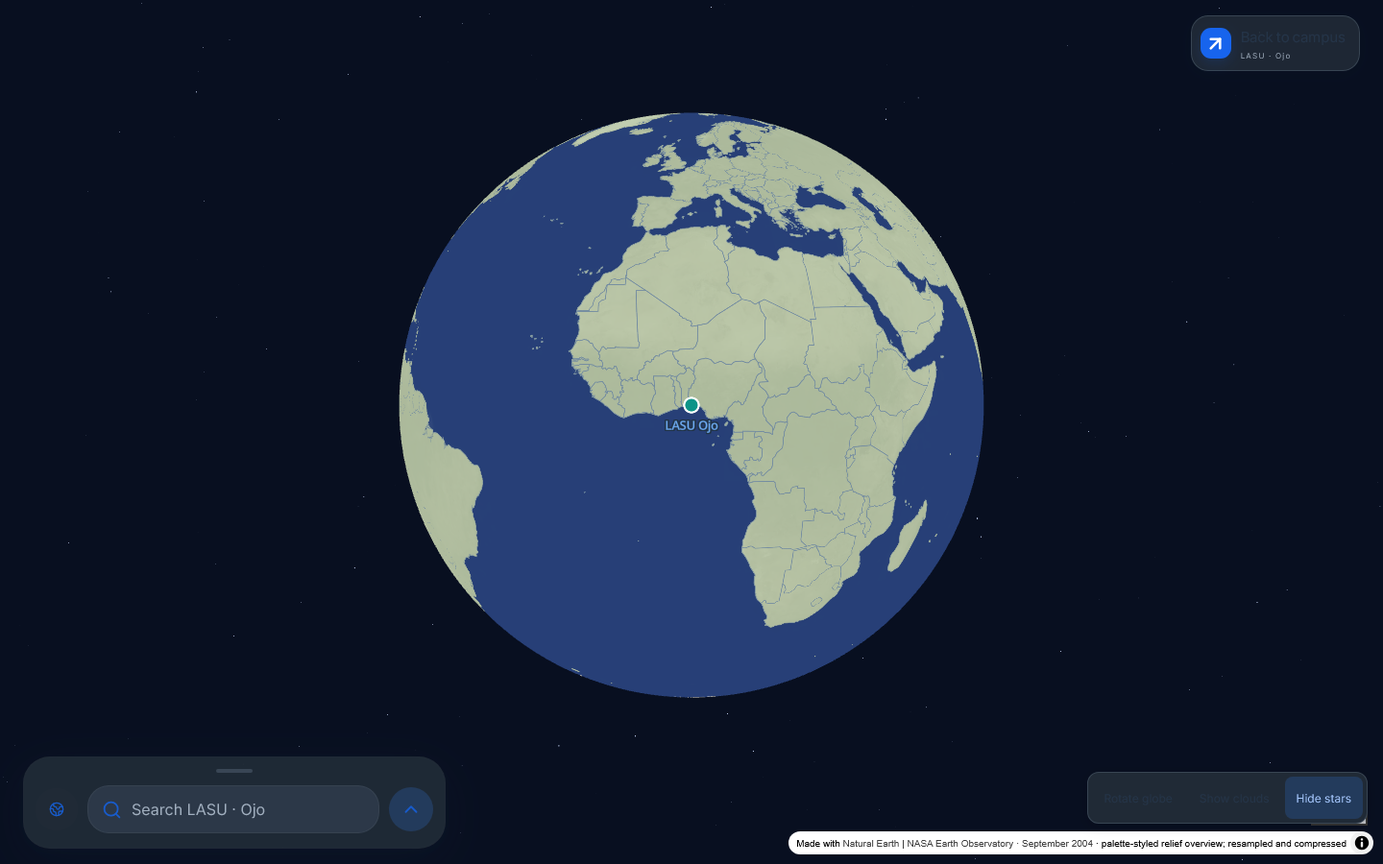
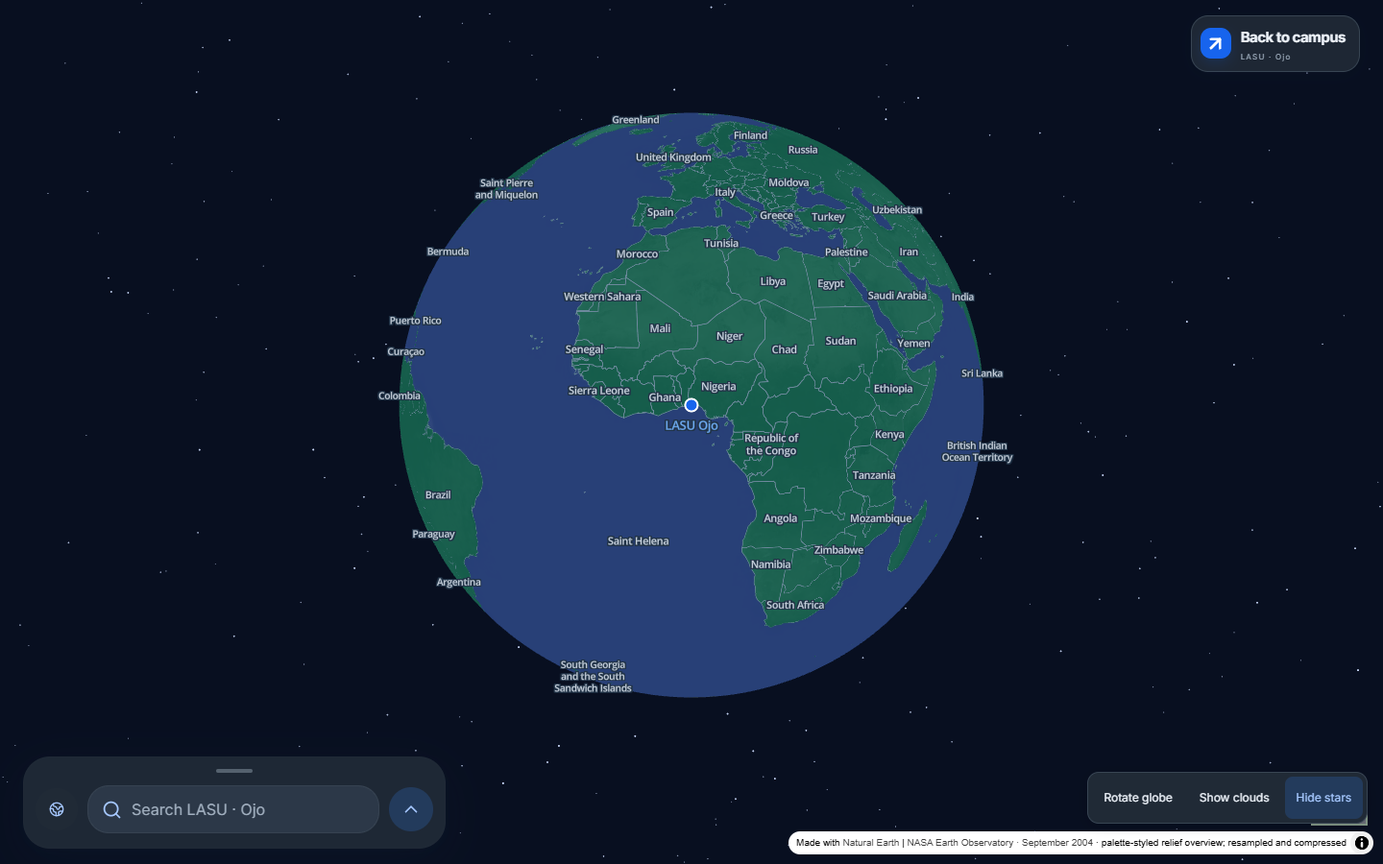
docs: refresh image workflows, activity monitoring and globe screenshots

diff --git a/README.md b/README.md
@@ -48,7 +48,7 @@ The project has three connected parts: a public offline navigation app, a privat
 
 ## Screenshots
 
-Current production-build captures use the verified published campus **`lasu-7343cb96c9a5`**: 395 buildings, 220 places and 39 photographs. Public screens render the real application; editor screens use isolated owner/API fixtures and never expose a private account or change production drafts. The model canvas examples include explicitly illustrative local edits. Phone views are browser simulations.
+The 26 September production-build captures use the then-published campus **`lasu-7343cb96c9a5`**: 395 buildings, 220 places and 39 photographs. Public screens render the real application; editor screens use isolated owner/API fixtures and never expose a private account or change production drafts. The model canvas examples include explicitly illustrative local edits. Phone views are browser simulations.
 
 ### Public map
 
@@ -96,6 +96,8 @@ The globe button beside public search (**Choose a campus**) opens the globe and 
 
 ![Campus search beside the globe](docs/assets/screenshots/globe-campus-chooser-2026-09-27.png)
 
+<img src="docs/assets/screenshots/globe-portrait-chooser-2026-09-27.png" width="280" alt="Portrait globe centred above the campus chooser, with visible stars">
+
 The [UNILAG download guide](docs/UNILAG-DOWNLOADS.md) reproduces separate ArcGIS/OSM files for Akoka and a 500 m access-road buffer, complete-record checks, illustrated manual instructions and a checksum-verified ZIP. Downloading does not import or publish UNILAG.
 
 | Published-campus switcher | Download one campus independently |
@@ -122,9 +124,20 @@ These new screenshots use isolated owner/API fixtures and illustrative second-ca
 
 <img src="docs/assets/screenshots/editor-model-actions-mobile-2026-09-26.png" width="300" alt="Selected detail action menu with edit, duplicate, copy, lock, hide and delete commands">
 
-**Photo management:** review, arrange and edit building photographs independently from model details.
+**Photo management:** edit and compress images offline, then review, arrange and publish building photographs independently from model details.
 
 ![Visual photo workspace with published building views and gallery controls](docs/assets/screenshots/editor-photos-current-2026-09-26.png)
+
+**Offline image editor:** retain originals, crop/rotate, adjust colour, flatten privacy areas, compare quality and compress batches. Map-ready copies enter the existing rights-review workflow. [Photo editing guide](docs/PHOTO-EDITING.md).
+
+![Offline photo editor with original retention and compression controls](docs/assets/screenshots/photo-optimise-desktop-2026-09-27.png)
+
+| Landscape image editing | Build and import activity |
+| --- | --- |
+| ![Landscape image editor with scrollable controls](docs/assets/screenshots/photo-optimise-landscape-2026-09-27.png) | ![Activity drawer with stages and measured progress](docs/assets/screenshots/activity-monitor-2026-09-27.png) |
+
+**Activity:** follow import inspection, release builds, model files, photos and offline downloads through named stages. Real counts drive percentages where available; failures retain recovery information. [Progress monitor](docs/PROGRESS-MONITOR.md).
+
 
 **Edit model:** one workspace combines an expandable structure tree, a shared 3D viewport, surface-aligned editing, precision plans and photograph references.
 
@@ -274,7 +287,7 @@ Open a destination's **Building photographs** and **Entrances & arrival** sectio
 
 The map distinguishes connected entrances, unconfirmed connections and mapped approaches. **Mapped approach …; final entrance not verified** means the route ends on a mapped path near the destination. It does not confirm a doorway connection. Recorded steps, ramps, surfaces and measured doorway widths remain observations, with unknown details left unknown; no accessible-route guarantee is implied.
 
-The building inspector shows its gallery preview and **Manage photos** button at the top. Owners edit arrival guides separately from this photo workspace. Add multiple files, review large previews, choose **I took this photo** or an external source, arrange the cover and gallery, and recover unfinished work in **Private uploads**. Reviewed photos attach to the map draft in an undoable batch; public-gallery preview and release publication remain separate. Original uploads and reviewer records remain private. Published derivatives are metadata-free WebP files, at most 1,600 pixels on the longest side and 250 KiB each. Moving an entrance flags its guide and photographs for review. Photos never grant access or create routing connections. [Guide, media review and offline behavior](docs/ARRIVAL-GUIDES.md) · [Collection coverage and candidate decisions](data/photos/README.md).
+The building inspector shows its gallery preview and **Manage photos** button at the top. Owners edit arrival guides separately from this photo workspace. Add multiple files, review large previews, choose **I took this photo** or an external source, arrange the cover and gallery, and recover unfinished work in **Private uploads**. Reviewed photos attach to the map draft in an undoable batch; public-gallery preview and release publication remain separate. Local full-resolution originals stay on the device; prepared upload copies and reviewer records remain private. The offline editor accepts JPEG/PNG/WebP, retains editable recipes and provides crop, rotation, colour, privacy and batch compression controls. [Editing and compression](docs/PHOTO-EDITING.md). Published derivatives are metadata-free WebP files, at most 1,600 pixels on the longest side and 250 KiB each. Moving an entrance flags its guide and photographs for review. Photos never grant access or create routing connections. [Guide, media review and offline behavior](docs/ARRIVAL-GUIDES.md) · [Collection coverage and candidate decisions](data/photos/README.md).
 
 ## Appearance and 3D
 
@@ -446,7 +459,7 @@ Storage can be evicted or unavailable. Keep recovery exports for important work;
 
 The LASU map combines OpenStreetMap and permitted LASU ArcGIS layers with reviewed owner corrections. Other campuses retain their own boundaries, mappings, source identities, attribution and access reviews. LASU’s confirmed road/gate exceptions are never applied to other campuses. Source IDs, access tags and provenance remain available. The world overview uses the fixed September 2004 NASA Blue Marble shaded-topography composite (about 2 km per original pixel at the equator) and public-domain Natural Earth v5.1.2 at 1:50m scale. It does not add worldwide roads, current campus imagery or routing coverage. Tiles are bundled locally. [Sources, dates, checksums and credits](data/world-sources.json).
 
-The reviewed public release verified on **26 September 2026** is **`lasu-7343cb96c9a5`**, containing **395 buildings, 220 places and 39 photographs**, with **84 assets / 20,228,832 bytes**. Its release summary is “Roofing detail additions and map building clean up”. The earlier 19-building photographic assessment used `lasu-8577d5c85d2c` and was published as `lasu-313d8a168635` on 24 September. Its historical comparison preserved feature identities, footprints, photographs, routing and access permissions; later owner publications have their own release records. The [coverage report](docs/PHOTO-MODEL-COVERAGE.md) records comparisons against that previous baseline. The live/downloaded version can advance independently; the app's Offline screen is authoritative for the user's installed package.
+The reviewed public release verified on **27 September 2026** is **`lasu-49f832190110`**, containing **395 buildings, 220 places and 39 photographs**, with **121 assets / 19,986,835 bytes**. Its release summary is “building cleanup and texture feature test”. The globe/import software deployment preserves this owner-published package unchanged. The earlier 19-building photographic assessment used `lasu-8577d5c85d2c` and was published as `lasu-313d8a168635` on 24 September. Its historical comparison preserved feature identities, footprints, photographs, routing and access permissions; later owner publications have their own release records. The [coverage report](docs/PHOTO-MODEL-COVERAGE.md) records comparisons against that previous baseline. The live/downloaded version can advance independently; the app's Offline screen is authoritative for the user's installed package.
 
 Seed coverage is a reproducible baseline, not a claim about later owner releases:
 
@@ -583,6 +596,13 @@ TurnRight/
 │   │   ├── surface-text.ts           # Wall/roof lettering and validation
 │   │   ├── campus-model-layer.ts     # Published/draft Three.js model rendering
 │   │   ├── PhotoManager.tsx          # Private photo uploads, recovery and approvals
+│   │   ├── PhotoOptimizer.tsx        # Offline crop, colour, privacy and compression UI
+│   │   ├── photo-edit*.ts            # Recipes, worker client and processing worker
+│   │   ├── photo-processing-local.ts # Native decode, pixel edits and bounded encoding
+│   │   ├── photo-local.ts            # Owner/campus original and recipe storage
+│   │   ├── photo-queue-store.ts      # Sequential uploads and immutable prepared copies
+│   │   ├── ProcessMonitor.tsx        # Activity drawer and scoped server status
+│   │   ├── process-monitor.ts        # Shared local task lifecycle and measured counts
 │   │   ├── SurveyPanel.tsx           # GPS recording and reviewed path application
 │   │   ├── routing.worker.ts         # Device-local routing
 │   │   ├── WorldAnimation.tsx        # Remembered rotation/cloud/star controls
@@ -636,6 +656,7 @@ TurnRight/
 | Import header or fields are unreadable in Dark mode | Install the current app update; campus surfaces and validation text use the shared theme tokens. |
 | A map import cannot finish | Open its job details; check missing projections/files, feature or expanded-size limits, attribution and source completeness. Correct the source/mapping and retry; failed jobs do not replace accepted data. |
 | An old inspection failed with `/work/request.json` permission denied | The worker now matches the private folder's owner. Install the current app update and retry the existing import. |
+| An ArcGIS inspection failed with `Failed to read GeoJSON data` | ArcGIS snapshots now explicitly use the ESRIJSON driver. Retry the existing job; the production UNILAG service has been verified through field mapping. |
 | An upload is missing or interrupted | Open the failed import, choose the same files again, then Inspect layers. Completed reserved uploads are reused. |
 | GeoJSON reports `exceededTransferLimit` | The export is incomplete. Use the underlying ArcGIS layer or its Query link for complete batching, or download every ID batch yourself. Do not remove the flag to accept partial data. |
 | A campus is missing from public search | Private campus creation/import does not publish it. Review the candidate, then build and publish that campus’s release. |
@@ -667,6 +688,7 @@ Start with the [documentation index](docs/README.md), which groups guides by tas
 | Guide | Topics |
 | --- | --- |
 | [Editor](docs/EDITOR.md) / [Reliability](docs/EDITOR-RELIABILITY.md) | Drawing, connections, recovery, conflict and operation-specific errors |
+| [Offline image editing](docs/PHOTO-EDITING.md) / [Progress monitor](docs/PROGRESS-MONITOR.md) | Local image tools, recovery, compression and task-stage visibility |
 | [Entrance guides](docs/ARRIVAL-GUIDES.md) / [Photograph collection](data/photos/README.md) | Entrance selection, accessibility observations, private media review, reusable image coverage and offline galleries |
 | [Driving](docs/DRIVING.md) / [Campus enrichment](docs/ENRICHMENT.md) | Independent vehicle permissions, drive-and-walk journeys, imports, source evidence and review |
 | [Unified model workflow](docs/UNIFIED-MODEL-EDITOR.md) / [Building editor](docs/BUILDING-EDITOR.md) | Precision tools, duplication, patterns, roofs/outlines, evidence, undo and recovery |

diff --git a/docs/PHOTO-EDITING.md b/docs/PHOTO-EDITING.md
@@ -1,0 +1,57 @@
+# Offline image editing and compression
+
+Open a building's **Manage photos** workspace and choose **Add photos**, **Local image drafts · edit offline**, or **Edit & optimise** on an existing photograph. Processing runs on your device. Upload review and map publication remain separate steps.
+
+![Desktop photo editor with local original, preview and compression controls](assets/screenshots/photo-optimise-desktop-2026-09-27.png)
+
+## Edit an image
+
+1. Select JPEG, PNG or WebP files: up to 20 images and 100 MiB per batch, 25 MiB and 40 megapixels per image. Animated images are rejected.
+2. Crop by drawing or entering percentages. Choose an aspect ratio, rotate, straighten or flip. Light and colour controls adjust exposure, contrast, saturation and temperature.
+3. Choose the longest edge, output format, quality and optional target size. **Preview changes** produces a new image from the retained original. Small images are not enlarged. PNG is lossless; JPEG uses white behind transparent areas.
+4. Compare the original and edited output with the divider. When crop or orientation changes, separate **Original / Edited** controls avoid overlaying mismatched geometry. Zoom and scroll to inspect details.
+5. Use **Download edited image** for a local export. **Download original** retrieves the retained source. Undo, redo and reset affect the recipe; they do not overwrite the source file.
+
+The target size is a goal, not a promise. Encoding tries a bounded set of quality settings and reports if the target cannot be met. Reduce the dimensions or choose another format after checking the result. Available codecs depend on the browser; unsupported encoders report an error rather than returning a differently labelled format.
+
+![Landscape photo editing with independently scrolling settings and preview](assets/screenshots/photo-optimise-landscape-2026-09-27.png)
+
+<img src="assets/screenshots/photo-controls-portrait-2026-09-27.png" width="280" alt="Portrait photo compression controls scrolled into view above the upload footer">
+
+## Privacy areas
+
+Preview the edited geometry first, then draw blur, pixelation or solid redaction areas. **Add redaction with coordinates** and the area percentage fields also work without dragging. These areas are flattened into the exported pixels. Prefer solid redaction for sensitive information. Changing crop, rotation or flips clears the areas and asks you to mark them again against the new geometry.
+
+Exports strip embedded metadata. The retained original still contains its original pixels and metadata, so only share it deliberately. Attribution, source, licence and modification notes remain in the photo review form and public credits; stripping embedded metadata does not remove those credits.
+
+## Batch processing and upload
+
+**Apply compression settings to batch** copies only the format, longest edge, quality and target size. Each photograph keeps its own crop, orientation and privacy areas. **Optimise batch** processes one image at a time. Pause waits between images; cancellation preserves completed results and original files.
+
+**Use selected for map** or **Use batch for map** prepares WebP images with a maximum 1,600-pixel edge and 250 KiB size, then opens the existing upload review. Oversized results remain local until you adjust them. The upload queue retains an immutable copy of the prepared output: later local edits cannot change a file already waiting to upload. Files queued offline resume when connected. Complete the attribution/rights review before attaching photos to a building draft; publishing the map still requires the release workflow.
+
+The server validates uploaded bytes and strips metadata when needed. A valid bounded, metadata-free WebP passes through without another lossy encode. Gallery replacements retain their position and existing source metadata. Without a local original, editing an existing photograph starts from the available gallery derivative and explains that limitation.
+
+## Prepare and recover offline
+
+While online, use **Survey → Prepare for offline survey** to cache the owner workspace and selected campus. Open the image editor and choose **Prepare for offline use** to verify the installed app cache and exercise the image codec. Then disconnect. Local drafts can be reopened, edited and downloaded after a reload.
+
+![Prepared image editor working while disconnected](assets/screenshots/photo-editing-offline-2026-09-27.png)
+
+Original bytes, recipes and previews use owner- and campus-scoped IndexedDB. They remain on this browser profile until removed; they are not an online backup. Clearing site data or browser storage eviction can remove them. Download important originals. **Remove local files** deletes a selected local draft; remove its pending upload from the queue first. Storage errors keep the panel open and explain recovery instead of claiming the changes were saved.
+
+The lazy worker uses native image decoding and encoding, with a canvas fallback where supported. No external image service receives local editing inputs. The image editor does not add Squoosh as a dependency; it supplies an integrated offline workflow with the formats above.
+
+## Verification
+
+Focused tests cover recipe validation, owner/campus isolation, metadata stripping, image orientation, JPEG/PNG/WebP results, redaction pixels, cancellation, gallery upload/retry, recovery and responsive controls. The production-service-worker test disconnects, reloads and edits a saved original before queueing it without an upload.
+
+```sh
+cd web
+npx vitest run tests/photo-edit.test.ts tests/media.test.ts tests/photo-workspace.test.ts
+npx playwright test --grep "offline image editor|image worker|photo workspace"
+npx playwright test --config playwright.photos.webkit.config.ts
+npx playwright test --config playwright.photos.pwa.config.ts
+```
+
+See [photo review and arrival guides](ARRIVAL-GUIDES.md), [activity monitoring](PROGRESS-MONITOR.md), [architecture](ARCHITECTURE.md) and [screenshot provenance](assets/screenshots/README.md).

diff --git a/docs/CAMPUS-IMPORTS.md b/docs/CAMPUS-IMPORTS.md
@@ -48,7 +48,11 @@ GeoJSON exports containing `exceededTransferLimit` (including inside collection 
 
 ### September 27 inspection repair
 
-Failed production jobs reported `PermissionError: /work/request.json` before parsing. Matching the container's UID/GID to the runner fixes access to the private 0700 directory while retaining network/capability restrictions. The [Linux regression run](https://github.com/mrglasswillbreak/TurnRight/actions/runs/36294682742) verifies the real worker command/mount and every supported driver. Missing-upload errors now explain how to reselect the same files; resumable uploads invalidate stale run tokens and candidates.
+Failed production jobs reported `PermissionError: /work/request.json` before parsing. Matching the container's UID/GID to the runner fixes access to the private 0700 directory while retaining network/capability restrictions. The [Linux regression run](https://github.com/mrglasswillbreak/TurnRight/actions/runs/36296175970) verifies the real worker command/mount and every supported driver. Missing-upload errors now explain how to reselect the same files; resumable uploads invalidate stale run tokens and candidates.
+
+Large ArcGIS snapshots also exposed a JSON-driver ambiguity: when feature records precede the schema, GDAL's header probe can select GeoJSON and fail before reading the later ArcGIS geometry type. Inspection now identifies the dialect from the parsed document and explicitly selects the [GDAL ESRIJSON driver](https://gdal.org/en/stable/drivers/vector/esrijson.html). The regression fixture puts a long feature record before the schema. The existing production UNILAG ArcGIS job then [completed inspection successfully](https://github.com/mrglasswillbreak/TurnRight/actions/runs/36296250634), exposing 14 layers for private field mapping, including 633 buildings and the complete 2,425-feature Greenland layer. No review candidates or public map changes were applied by this verification.
+
+The five complete user-supplied files also [passed a production file inspection](https://github.com/mrglasswillbreak/TurnRight/actions/runs/36296393964): 633 building footprints, 157 road lines, 179 road-width polygons, 426 parcels and nine greenspaces, totaling 1,404 features. The private source **UNILAG supplied vectors — inspection** remains at Map fields. Parcel uses `OBJECTID_1`, road-width polygons are suggested as land cover, and walking access remains restricted until reviewed. The original batch containing truncated Greenland remains recoverable with its explicit completeness error. Inspection success does not certify geometry validity, redistribution rights or publication readiness.
 
 The six supplied UNILAG examples were also checked locally without changing their contents. Greenland contains 1,000 valid polygons but explicitly reports truncation, so it needs a complete export. Parcel contains 426 features and requires its unique `OBJECTID_1` (the older `OBJECTID` repeats). Greenspace has nine features; Roads has 157 lines; Building_footprint has 633 polygons. Road width contains 179 polygons, one geometrically invalid, to resolve in preview/review. These checks do not establish source completeness for files without a source count or grant redistribution rights.
 
@@ -113,6 +117,10 @@ The default limits are 50 MiB per upload batch, 250 MiB expanded archives, 100,0
 `campuses`, `campus_sources`, `campus_imports` and `campus_import_assets` hold private identity, configuration and jobs. Migrations 013–015 add campus scoping to source records, edits, reviews, reports, surveys, media, model assets and releases. Legacy requests and backfilled records remain LASU-only. The server resolves public slugs and passes an explicit campus context to REST and transactional RPCs; private storage grants are not exposed to anonymous or authenticated browser clients.
 
 The public `/packages/campuses.json` catalogue is versioned separately from immutable manifests. `/packages/latest.json` remains LASU's compatibility entry point. New manifests carry campus identity; LASU's existing feature IDs and public model fingerprints are unchanged. See [architecture](ARCHITECTURE.md) and [rollout](DEPLOYMENT.md).
+
+## Process visibility
+
+Open **Activity** while inspecting or building a preview. It shows upload/file counts, verified ArcGIS retrieval batches, conversion and final job stages. The job remains visible in the campus workspace too. Status refreshes while online; cancellation still invalidates the run token so stale processing cannot apply results. [Progress monitor](PROGRESS-MONITOR.md).
 
 ## Verification
 

diff --git a/docs/assets/screenshots/README.md b/docs/assets/screenshots/README.md
@@ -1,10 +1,19 @@
 # Application screenshots
 
+## Image editing, activity and portrait globe · 27 September 2026
+
+The new `photo-optimise-*`, `photo-controls-portrait`, `photo-editing-offline` and `activity-monitor` captures are unaltered local application screenshots. The desktop/phone images use Chromium with an isolated owner API and a published, attributed School of Communication photograph; the fixture gallery is deliberately called Library and is not a claim about that building identity. The portrait image is scrolled to compression controls. The offline screenshot comes from the production-service-worker test after disconnecting and reloading. The activity import stage is an explicit test fixture, not a live production import.
+
+Run `playwright.photos.webkit.config.ts`, `playwright.photos.pwa.config.ts`, and the Chromium `offline image editor|image worker|photo workspace` journeys as described in [photo editing](../../PHOTO-EDITING.md). The final focused results are six Chromium workflows, four WebKit workflows and one disconnected PWA workflow. Reviewed captures show fit-to-panel previews, independently scrolling landscape regions and contained phone controls.
+
+The theme and chooser globe captures were refreshed from the configured production build with the brighter star field. `globe-portrait-chooser` is 390×844; the desktop chooser is 1280×720. The globe/chooser data are isolated fixtures and do not imply a second published campus. The still screenshots demonstrate the controls and star orientation; animation and occlusion have separate pixel/workflow assertions.
+
+
 ## Globe and import recovery · 27 September 2026
 
 The new `globe-*-2026-09-27.png` captures show the current navy star background, different globe orientations, Light's retained sunlit horizon, Dark without horizon glow, the campus chooser and a centred mobile landscape globe. `import-resume-2026-09-27.png` shows recovery from an unavailable uploaded file. These replace the affected September 26 globe/chooser views in current guides; older files remain dated archives.
 
-They are unaltered application captures from `tests/browser/globe-search.spec.ts` and the `campus imports resume failed uploads` journey, with real MapLibre rendering and isolated public/owner responses. Example campus names and the small place fixture are illustrative, not newly published campuses. Theme views are 1440×900, landscape is 667×375 and the chooser is 1440×1000. Both Chromium and Windows WebKit workflows are exercised; the displayed theme and upload-recovery captures use WebKit, while landscape and the chooser use Chromium. They do not establish physical-phone performance or GPS accuracy.
+They are unaltered application captures from `tests/browser/globe-search.spec.ts` and the `campus imports resume failed uploads` journey, with real MapLibre rendering and isolated public/owner responses. Example campus names and the small place fixture are illustrative, not newly published campuses. Theme views are 1440×900 and landscape is 667×375. Both Chromium and Windows WebKit workflows are exercised; the refreshed theme/chooser captures use Chromium, and upload recovery uses WebKit. The landscape file retains its earlier date-matched capture. They do not establish physical-phone performance or GPS accuracy.
 
 Run the focused journeys sequentially, inspect their `test-results` PNG files, and copy reviewed captures to this directory with their date:
 

diff --git a/docs/ARCHITECTURE.md b/docs/ARCHITECTURE.md
@@ -8,10 +8,16 @@ Migrations 013–015 backfill campus IDs without rewriting feature identities or
 
 GIS processing stays outside browser bundles. Owner-signed uploads feed resumable jobs, a restricted GDAL/PROJ container and Pyosmium topology ingestion. HTTPS adapters validate public DNS/redirects and complete ArcGIS ID batches. Candidates compare against an exact accepted source snapshot and are queued atomically with run-token checks; source corrections and publication remain separate steps. Manual refresh is default. Optional daily checks never publish automatically.
 
-The container uses the host runner's UID/GID to access its private 0700 temporary directory while retaining disabled network access, dropped capabilities and a read-only root filesystem. The Linux regression workflow exercises that actual mount/command as well as individual drivers. Inspection rejects truncated GeoJSON/ESRIJSON exports before GDAL conversion, reports unique candidate ID fields, and accepts a layer's `/query` URL with an explicit notice that query filters are replaced by campus-bound inspection. Failed uploads can resume their reserved storage objects; resetting the job invalidates its old run token and candidate.
+The container uses the host runner's UID/GID to access its private 0700 temporary directory while retaining disabled network access, dropped capabilities and a read-only root filesystem. The Linux regression workflow exercises that actual mount/command as well as individual drivers. Inspection selects the GeoJSON/ESRIJSON driver from the parsed JSON dialect rather than a short header probe, rejects truncated exports before GDAL conversion, reports unique candidate ID fields, and accepts a layer's `/query` URL with an explicit notice that query filters are replaced by campus-bound inspection. Failed uploads can resume their reserved storage objects; resetting the job invalidates its old run token and candidate.
 
 Code builds preserve all published campus assets. Release snapshots record the catalogue baseline, and serialized publication rejects stale previews. Campus rollback copies its historical immutable package into a new preview alongside the other current campuses. See [formats and workflows](CAMPUS-IMPORTS.md).
 
+
+## Local images and process monitoring
+
+`PhotoOptimizer.tsx` is a lazy image-editing dialog. Versioned recipes feed `photo-edit.worker.ts` and `photo-processing-local.ts`; native decoding/encoding, bounded image dimensions and sequential batches keep large images outside the startup path. Edits always begin from the retained source. IndexedDB stores original/output bytes and MIME types, reconstructing Blobs when opened to avoid browser-specific Blob persistence failures. Keys isolate owner and campus. Prepared queue copies are immutable and survive offline reloads. Server validation passes through bounded metadata-free WebP without another lossy encode; existing uploads still receive sanitisation. [Workflow and limits](PHOTO-EDITING.md).
+
+`process-monitor.ts` collects local stage events and real completion totals. The lazy owner Activity drawer also polls campus-scoped `process-status` while visible/online. Import worker run-token checks protect progress as well as results. Release stage recording is best effort and never makes a valid release depend on monitoring availability. No new schema is required. [Coverage and lifecycle](PROGRESS-MONITOR.md).
 
 ## Authored model extension
 

diff --git a/docs/PHOTO-MODELS.md b/docs/PHOTO-MODELS.md
@@ -16,7 +16,7 @@ No image in this snapshot has an established camera bearing tied to a specific m
 
 ## Owner workflow
 
-Select a building and open **Edit model**. Desktop combines a measured wall canvas, selectable 3D, properties and a photograph reference. Mobile offers **Wall**, **3D** and **Photo** views. [The complete current workspace guide](UNIFIED-MODEL-EDITOR.md) covers precision controls, groups, patterns, presets, recovery and targeted review.
+Select a building and open **Edit model**. Desktop combines a measured wall canvas, selectable 3D, properties and a photograph reference. The shared views are **Orbit**, **Edit surface** and **Photo**. A remembered **Reference split** places the model beside a photograph when enough space is available. Edit surface supplies the precision controls and automatic 2D fallback. [The complete current workspace guide](UNIFIED-MODEL-EDITOR.md) covers precision controls, groups, patterns, presets, recovery and targeted review.
 
 1. Choose a mapped wall and photograph. Confirm their correspondence and check historical labels and credits. A general building photograph does not prove every elevation.
 2. Add windows, doors, columns, balconies, canopies, parapets or trim directly in metres; generated details are preserved in the same action. Conversion can also be previewed first. Dimensions and unseen sides remain estimates unless supported by measurements. Appearance (including whole-building height), roof and outline controls are modes in this same workspace.
@@ -29,7 +29,7 @@ Sources contains **Edit model evidence · 19 buildings**. Review observations an
 
 ## Globe sources
 
-The globe uses the fixed **September 2004 NASA Blue Marble Next Generation shaded-topography composite**, at 21,600 × 10,800 source pixels (approximately **2 km per source pixel at the equator**). It is resampled to 8,192 × 4,096 and reprojected into 341 local 512-pixel WebP tiles for zooms 0–4. This is a dated global overview, not current campus imagery. Relief is baked in; there are no global terrain meshes, animated clouds or automatic rotation.
+The globe uses the fixed **September 2004 NASA Blue Marble Next Generation shaded-topography composite**, at 21,600 × 10,800 source pixels (approximately **2 km per source pixel at the equator**). It is resampled to 8,192 × 4,096 and reprojected into 341 local 512-pixel WebP tiles for zooms 0–4. This is a dated global overview, not current campus imagery. Relief is baked in; there are no global terrain meshes. Optional gentle automatic rotation and decorative animated clouds now accompany the overview; these are not live weather. A deterministic navy star background responds to globe orientation in both themes. Light retains the sunlit horizon; Dark omits it.
 
 Credit: NASA Earth Observatory, Blue Marble Next Generation. [Original imagery](https://science.nasa.gov/earth/earth-observatory/blue-marble-next-generation/base-topography/) · [NASA media guidance](https://www.nasa.gov/nasa-brand-center/images-and-media/). The image is reprojected, resampled and compressed; no NASA affiliation or endorsement is implied. Natural Earth v5.1.2 supplies 1:50m countries/coastlines, lakes and selected populated places under its [public-domain terms](https://www.naturalearthdata.com/about/terms-of-use/). Original label spelling is retained in `sourceName` when display labels require transliteration for bundled glyphs.
 

diff --git a/docs/PROGRESS-MONITOR.md b/docs/PROGRESS-MONITOR.md
@@ -1,0 +1,27 @@
+# Build and process progress
+
+The owner's **Activity** button opens **Builds and processes**. It shows local tasks alongside campus-scoped server jobs, with stage text, measured counts when available, errors and supported cancellation/retry actions. It remains available outside modal editing panels; photo editing also displays its active processing stage inside the dialog.
+
+![Activity drawer showing import inspection and completed image processing](assets/screenshots/activity-monitor-2026-09-27.png)
+
+Covered work includes map import uploads and inspection, ArcGIS retrieval, release validation/build/publication, model file parsing/export, photo processing/uploads/approval and offline package preparation. Existing feature-specific status remains beside the initiating action. Percentages come from actual totals; phases without a measurable total show an indeterminate bar and a named stage. Elapsed times are shown only when known.
+
+Owner status refreshes every five seconds while the page is visible and online. Failed refreshes leave the last known stage with an explanation. Local history retains the latest 30 finished tasks plus active tasks; dismissing a finished task hides it until its state changes. Local processing history clears when the owner session ends. Server-backed jobs can be reconstructed after reload. These are task records, not a promise that browser work continues after closing the tab.
+
+Import cancellation retains the existing run-token protection against stale results. Failed photo uploads can retry from their retained prepared copy. Cancellation is shown only for operations that have a cancellation implementation. A release cannot be safely interrupted at every stage, so its monitor does not invent a cancel action. Use the linked workflow/release error information to recover failed server work.
+
+## Implementation
+
+`process-monitor.ts` provides shared begin/update/finish/fail records. Lazy `ProcessMonitor.tsx` polls the authenticated `process-status` action and merges jobs, releases and imports without returning candidate datasets. Photo queues, image/model workers, validation, API requests and offline downloads publish local events to the same store. Public download UI retains its existing progress display without loading the owner's monitor.
+
+The Python importer writes stage messages with its active run token. The restricted converter shares file counts through a small progress file. ArcGIS reports retrieved feature counts only after verified batches. `release.mts` records package/model/photo/asset/deployment stages in the existing jobs table; monitoring failures do not cause an otherwise valid release operation to fail. These changes need no database migration.
+
+This covers application-initiated workflows. Ordinary source-code CI/deployment runs still have their detailed logs in GitHub Actions and Vercel; they are not automatically mirrored into the owner database.
+
+```sh
+cd web
+npx vitest run tests/process-monitor.test.ts
+npx playwright test --grep "offline image editor"
+```
+
+See [map imports](CAMPUS-IMPORTS.md), [photo editing](PHOTO-EDITING.md) and [deployment](DEPLOYMENT.md).

diff --git a/docs/ACCEPTANCE.md b/docs/ACCEPTANCE.md
@@ -20,6 +20,16 @@
   0700 upload directory. It covers GeoJSON filenames, ESRI JSON, query URLs,
   truncated exports and identifier uniqueness. Local Windows lacks the GDAL and
   Pyosmium drivers; Linux supplies that integration evidence.
+- The [follow-up run](https://github.com/mrglasswillbreak/TurnRight/actions/runs/36296175970)
+  passes 17 parser tests and the private worker smoke test with a large ArcGIS
+  record preceding its schema. Explicit JSON-driver selection fixes the
+  additional failure found by live verification. The real existing ArcGIS job
+  reaches field mapping with 14 layers; no preview was queued or published.
+- A software Chromium repaint comparison records median whole-map latency of
+  553 ms with stars and 534 ms without, including scheduling and GPU completion.
+  This noisy software-renderer sample is not a phone frame-rate claim. With
+  rotation/cloud animation off, stars produce zero idle repaint events in the
+  observation window; they do not add a separate animation loop.
 - User-provided UNILAG files were inspected without modification: Greenland is
   an explicitly truncated export, Parcel's unique identifier is `OBJECTID_1`,
   and Road width contains one invalid polygon. Complete downloads, private
@@ -150,3 +160,13 @@ Use a log such as:
 | Pending | Representative gate → building | Pending survey | Pending | — | — | Unverified |
 
 Publish only after the user accepts the preview and the relevant checks pass. Keep untested destinations and sections explicitly unverified.
+
+
+## Offline image tools and activity · 27 September 2026
+
+- Exercise desktop, portrait and landscape crop, orientation, quality, comparison, reset and local recovery. Inspect actual screenshots for clipped forms and image fit.
+- Check JPEG/PNG/WebP output, orientation metadata, transparent PNG, flattened privacy pixels, size limits and cancellation. Preview before drawing a privacy area; moving geometry clears existing areas with a notice.
+- Prepare the production service worker, disconnect, reload, edit the retained original, download the result and queue without sending an upload. Reconnect to finish rights review and attach to the draft.
+- Verify owner/campus isolation and immutable queued copies. Exercise storage failure and removal protection; no failed save should be described as recovered.
+- Check Activity for import, release, model and photo stages; actual file counts, indeterminate phases, cancellation, errors, dismissals and a failed status refresh. Hidden/offline pages must not keep polling.
+- Run the focused commands in [photo editing](PHOTO-EDITING.md) and [progress monitoring](PROGRESS-MONITOR.md), plus lint, configured build and existing budgets. Browser simulations do not replace checking physical-device keyboards or storage pressure.

diff --git a/docs/DEPLOYMENT.md b/docs/DEPLOYMENT.md
@@ -138,7 +138,7 @@ Use the editor on desktop. Select places, paths or building outlines, or draw ne
 
 The **Sources** tab compares imported records before/after and retains corrections separately. LASU’s original **Check now** uses the 02:17 UTC workflow. **Campuses** configures additional file, OSM and ArcGIS sources per campus; `map-import.yml` runs private inspection/preview jobs and `map-source-check.yml` checks opted-in sources at 03:47 UTC. Review source removals and conflicts carefully. Incomplete downloads and unusually large removal sets fail without deleting the accepted baseline. Source modification dates are not survey dates.
 
-In Releases, review validation errors/warnings and use draft route previews. Write a summary and create a preview. The workflow freezes approved records and corrections, validates them, builds hashed packages, uploads an immutable Vercel preview, and records success only when Vercel reports READY. Open and accept that preview before choosing Publish. Publication promotes that exact deployment and verifies readiness and production domain assignment. Failed jobs retain the old public release. Refresh the editor to see progress.
+In Releases, review validation errors/warnings and use draft route previews. Write a summary and create a preview. The workflow freezes approved records and corrections, validates them, builds hashed packages, uploads an immutable Vercel preview, and records success only when Vercel reports READY. Open and accept that preview before choosing Publish. Publication promotes that exact deployment and verifies readiness and production domain assignment. Failed jobs retain the old public release. Open **Activity** to follow named build/publication stages; visible online sessions refresh automatically every five seconds. [Progress monitor](PROGRESS-MONITOR.md). Ordinary Git code deployments retain their GitHub Actions/Vercel logs.
 
 To restore one campus, use **Prepare restore preview** on its historical release. The worker copies that campus’s immutable package into a fresh preview alongside every other campus’s current package. Review and publish that new preview; never promote an old whole-site deployment for a campus rollback. Retain historical immutable packages and snapshots. Clients still choose whether to download a different version, and an active navigation session remains on its current package. A date on a closure never reopens a path: explicitly confirm reopening, save, preview and publish it.
 

diff --git a/docs/ARRIVAL-GUIDES.md b/docs/ARRIVAL-GUIDES.md
@@ -48,9 +48,10 @@ kept visible.
   Editing keeps the original position. Changing **Pictured building** or
   **Photograph of** moves the photo and updates affected galleries in one batch.
 - **Add photos:** select several JPEG, PNG or WebP files, or drop them onto the
-  desktop upload area. Each file is limited to 10 MiB. Files upload and process
-  sequentially; a failed file has its own retry/reselection controls and does
-  not discard other uploads.
+  desktop upload area. The [offline image editor](PHOTO-EDITING.md) accepts up to
+  25 MiB per image and 20 images / 100 MiB per batch. Edit and preview locally,
+  then choose **Use selected for map** or **Use batch for map** to upload bounded
+  WebP copies. Files process sequentially; failures retain the other results.
 - **Review uploads:** use the large preview and Previous/Next controls. Give each
   photo a caption, useful image description and correct building/entrance match.
   The image itself must be checked for identity and visual quality individually.
@@ -103,11 +104,13 @@ rejected instead of overwriting a newer session; recover the latest private
 upload before continuing. Removing an item from the local queue does not delete
 its private upload. Approved records are immutable; edits create a new revision.
 
-Originals and upload/reviewer records remain in the private `building-media`
+Prepared upload copies (and originals from the earlier direct-upload flow) and reviewer records remain in the private `building-media`
 bucket and owner-authorized `building_media` table. The server rejects malformed,
 animated, oversized or unsupported images and creates a metadata-free WebP at
-most 1,600 pixels on its longest side and 250 KiB. Cropping, rotation controls and
-image alteration are outside this workflow. Explicit owner galleries, including
+most 1,600 pixels on its longest side and 250 KiB. Valid metadata-free WebP copies
+within those limits pass through without another lossy encode. Local full-resolution
+originals and editing recipes remain on this device; [crop, rotation, privacy areas
+and compression](PHOTO-EDITING.md) happen before upload review. Explicit owner galleries, including
 empty galleries, override the research catalogue through aliases and merges.
 
 New installations apply migrations in order through

diff --git a/docs/PRODUCTION.md b/docs/PRODUCTION.md
@@ -3,6 +3,14 @@
 Entries are dated receipts. Later entries supersede earlier deployment status,
 package counts and interface labels; older evidence is retained for audit.
 
+## Globe and import inspection repairs · 27 September 2026
+
+Runtime revision **`c28da32`** is Ready in [production](https://vercel.com/muhammed-abdulhadi-s-projects/turnright/GgGLCJn8TRpJtc8337gnTFcfNXjQ). Portrait/landscape campus search now fits within the visible viewport and globe framing responds to dock/chooser size. Stars are brighter in both themes; Light retains the horizon glow. Production was checked in the in-app browser after installing the new service worker.
+
+The earlier importer fixes select the actual ArcGIS JSON dialect and run the restricted converter with the host runner UID/GID. Live private inspections succeeded for the owner's ArcGIS service (14 layers / 10,516 features) and five complete supplied GeoJSON files (1,404 features). The supplied Greenland file is incomplete: 1,000 of the service's 2,425 records, so its rejection is retained. These inspections did not publish or apply source data. [Import receipts and recovery](CAMPUS-IMPORTS.md).
+
+The production catalogue remains LASU-only, with **`lasu-49f832190110`**, 395 buildings, 220 places and 39 photographs. Its manifest and all **121 assets / 19,986,835 bytes** passed baseline hash/length verification after deployment. The UNILAG research download remains a separate local delivery; no second campus was published.
+
 ## Project documentation and public dock — 26 September 2026
 
 Runtime revision **`e6106447c3066f`** is Ready in

diff --git a/docs/MOTION.md b/docs/MOTION.md
@@ -74,3 +74,12 @@ Keep this label until Android and iPhone checks, including installed apps, pass.
 
 - [W3C Device Orientation and Motion](https://www.w3.org/TR/orientation-event/) — event coordinates, absolute references, permissions and lifecycle requirements.
 - [Apple DeviceOrientationEvent](https://developer.apple.com/documentation/webkitjs/deviceorientationevent) — WebKit compass properties.
+
+
+### Phone chooser and star visibility · 27 September 2026
+
+The campus chooser is constrained to the visible viewport in portrait and landscape, including simulated keyboard height changes. Whole-globe framing accounts for the actual chooser/dock region and rotation to another screen size. The brighter 6,144-point star field retains deterministic orientation, Earth occlusion and the Light-only horizon glow. The production public map was checked in the in-app browser after installing the updated service worker.
+
+![Portrait campus chooser and globe within the visible screen](assets/screenshots/globe-portrait-chooser-2026-09-27.png)
+
+The regression suites cover simulated viewports and actual WebGL pixels. Windows WebKit can produce blank canvas screenshots immediately after certain resizes even when its pixel assertions pass; physical Safari rotation remains a separate device check. [Screenshot provenance](assets/screenshots/README.md).
